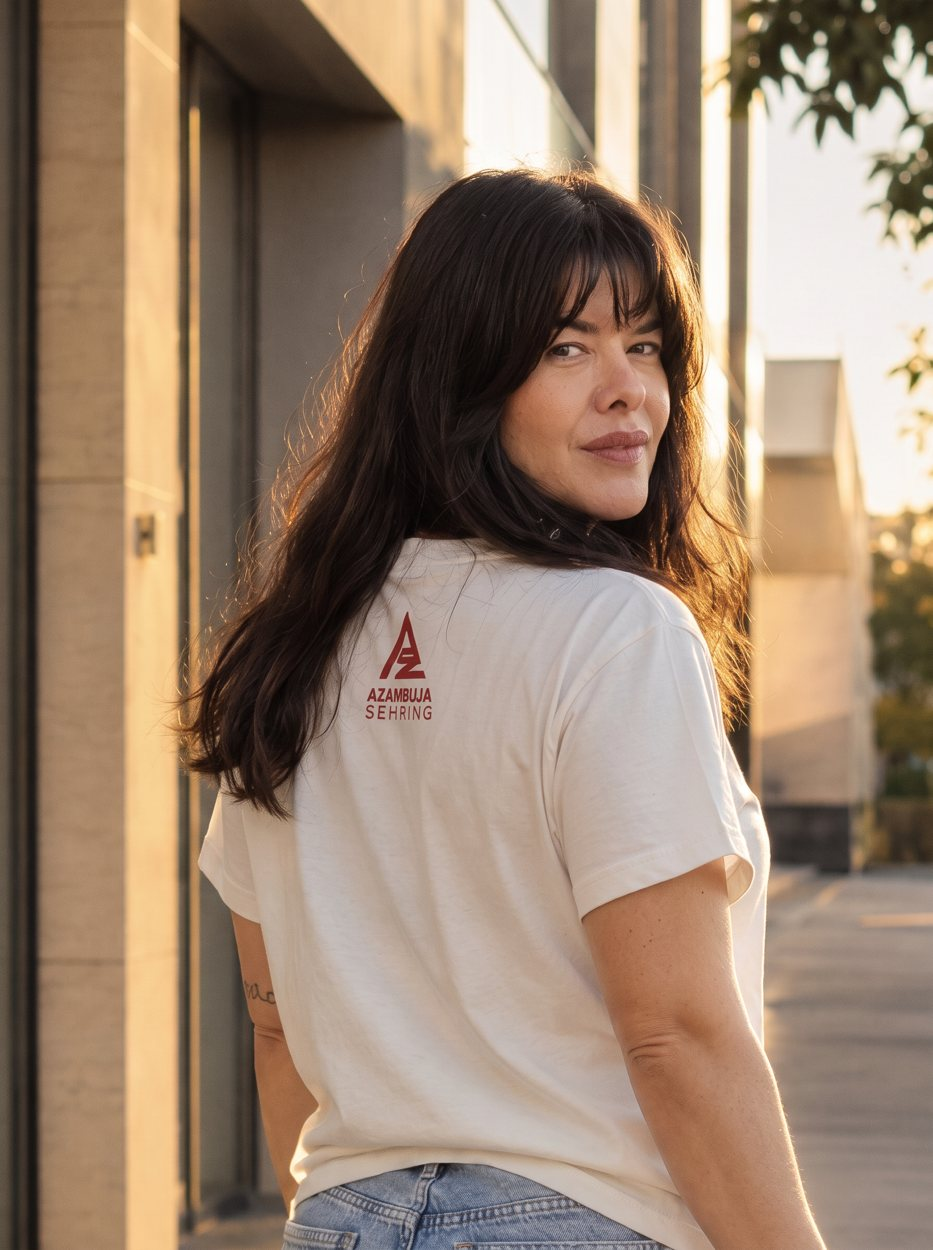
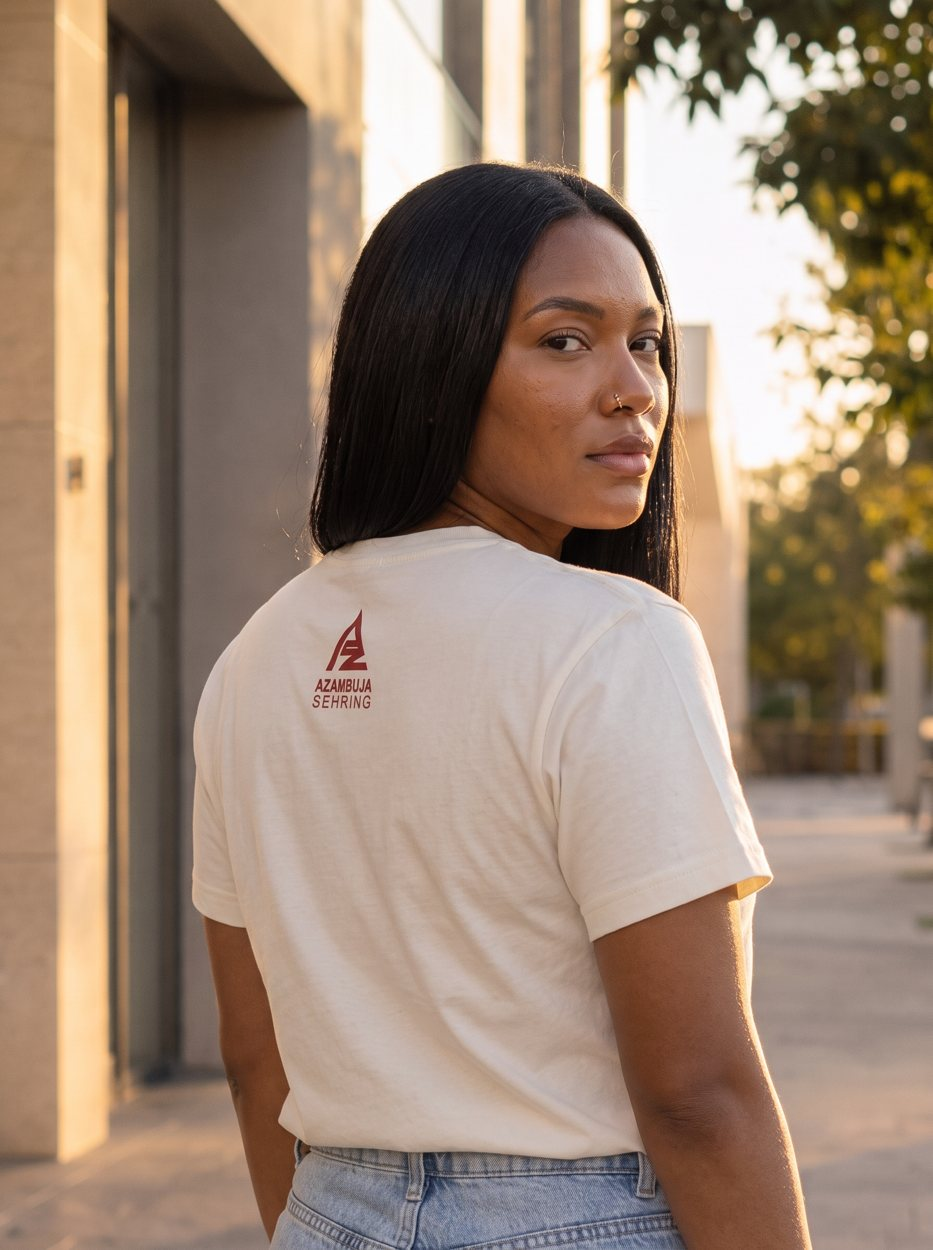
Add files via upload

diff --git a/public/loja/index.html b/public/loja/index.html
@@ -109,7 +109,7 @@ input:focus,textarea:focus{outline:2px solid var(--amarelo);border-color:var(--a
 
 <header>
   <div class="wrap">
-    <div class="marca"><img src="/loja/logo.png?v=4" alt="">Azambuja Jiu-Jitsu</div>
+    <div class="marca"><img src="/loja/logo.png?v=5" alt="">Azambuja Jiu-Jitsu</div>
     <button class="btn-carrinho" id="abrir">Sacola (<span id="qtdTotal">0</span>)</button>
   </div>
 </header>
@@ -178,20 +178,20 @@ const TAMANHOS_ADULTO = ["P","M","G","GG"];
 const PRODUTOS = [
   {id:"samurai-branca", categoria:"camisetas", nome:"Camiseta Código Samurai · Branca",
    sub:"Coleção retrô redesenhada. Estampa azul, selo no peito e frase nas costas", preco:80.00, tamanhos:TAMANHOS_ADULTO,
-   peca:"/loja/peca-samurai-branca.jpg?v=4", fotos:(m,l)=>`/loja/branca-${m}-${l}.jpg?v=4`, modelos:true, lados:true},
-  {id:"samurai-marinho", categoria:"camisetas", nome:"Camiseta Código Samurai · Azul-marinho",
+   peca:"/loja/peca-samurai-branca.jpg?v=5", fotos:(m,l)=>`/loja/branca-${m}-${l}.jpg?v=5`, modelos:true, lados:true},
+  {id:"samurai-preta", categoria:"camisetas", nome:"Camiseta Código Samurai · Preta",
    sub:"Coleção retrô redesenhada. Estampa branca, selo no peito e frase nas costas", preco:80.00, tamanhos:TAMANHOS_ADULTO,
-   peca:"/loja/peca-samurai-marinho.jpg?v=4", fotos:(m,l)=>`/loja/marinho-${m}-${l}.jpg?v=4`, modelos:true, lados:true},
+   peca:"/loja/peca-samurai-preta.jpg?v=5", fotos:(m,l)=>`/loja/preta-${m}-${l}.jpg?v=5`, modelos:true, lados:true},
   {id:"lasbrabas-camiseta", categoria:"camisetas", nome:"Camiseta Las Brabas", sub:"Coleção Las Brabas",
-   esgotado:true, fotos:(m,l)=>`/loja/lasbrabas-camiseta-${l}.jpg?v=4`, lados:true},
+   esgotado:true, fotos:(m,l)=>`/loja/lasbrabas-camiseta-${l}.jpg?v=5`, lados:true},
   {id:"lasbrabas-moletom", categoria:"moletons", nome:"Moletom Las Brabas", sub:"Coleção Las Brabas",
-   esgotado:true, fotos:(m,l)=>`/loja/lasbrabas-moletom-${l}.jpg?v=4`, lados:true},
+   esgotado:true, fotos:(m,l)=>`/loja/lasbrabas-moletom-${l}.jpg?v=5`, lados:true},
   {id:"lasbrabas-rashlonga", categoria:"rashguards", nome:"Rashguard Manga Longa Las Brabas", sub:"Coleção Las Brabas",
-   esgotado:true, peca:"/loja/peca-rashlonga.jpg?v=4", fotos:(m,l)=>`/loja/lasbrabas-rashlonga-${l}.jpg?v=4`},
+   esgotado:true, peca:"/loja/peca-rashlonga.jpg?v=5", fotos:(m,l)=>`/loja/lasbrabas-rashlonga-${l}.jpg?v=5`},
   {id:"lasbrabas-rashcurta", categoria:"rashguards", nome:"Rashguard Manga Curta Las Brabas", sub:"Coleção Las Brabas",
-   esgotado:true, peca:"/loja/peca-rashcurta.jpg?v=4", fotos:(m,l)=>`/loja/lasbrabas-rashcurta-${l}.jpg?v=4`},
+   esgotado:true, peca:"/loja/peca-rashcurta.jpg?v=5", fotos:(m,l)=>`/loja/lasbrabas-rashcurta-${l}.jpg?v=5`},
   {id:"legging", categoria:"leggings", nome:"Legging Las Brabas", sub:"Coleção Las Brabas",
-   esgotado:true, peca:"/loja/peca-legging.jpg?v=4", fotos:(m,l)=>`/loja/legging-${l}.jpg?v=4`}
+   esgotado:true, peca:"/loja/peca-legging.jpg?v=5", fotos:(m,l)=>`/loja/legging-${l}.jpg?v=5`}
 ];
 /* ======================================================= */
 
